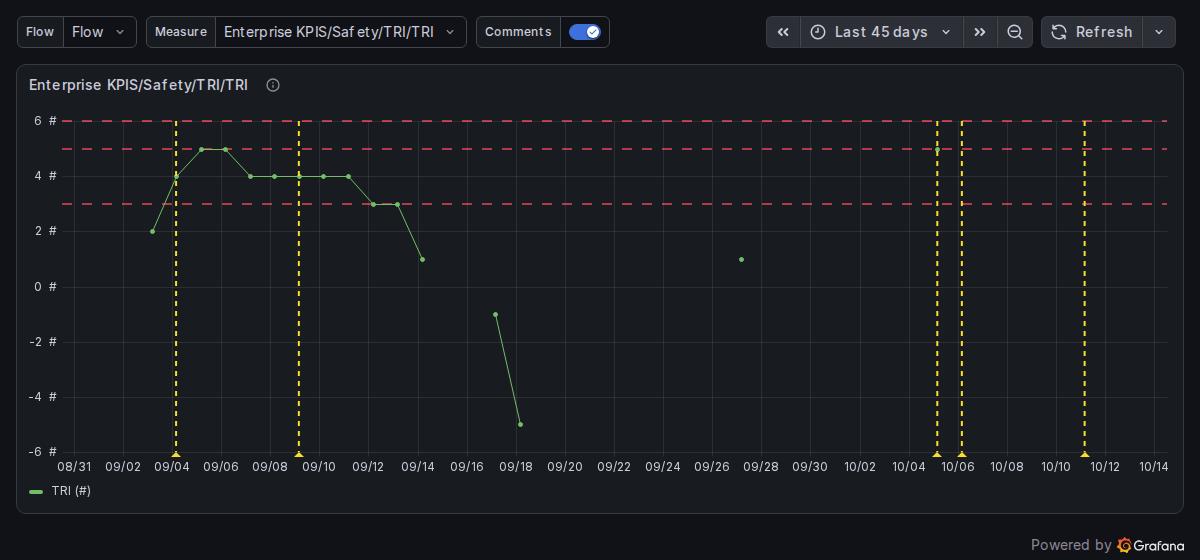
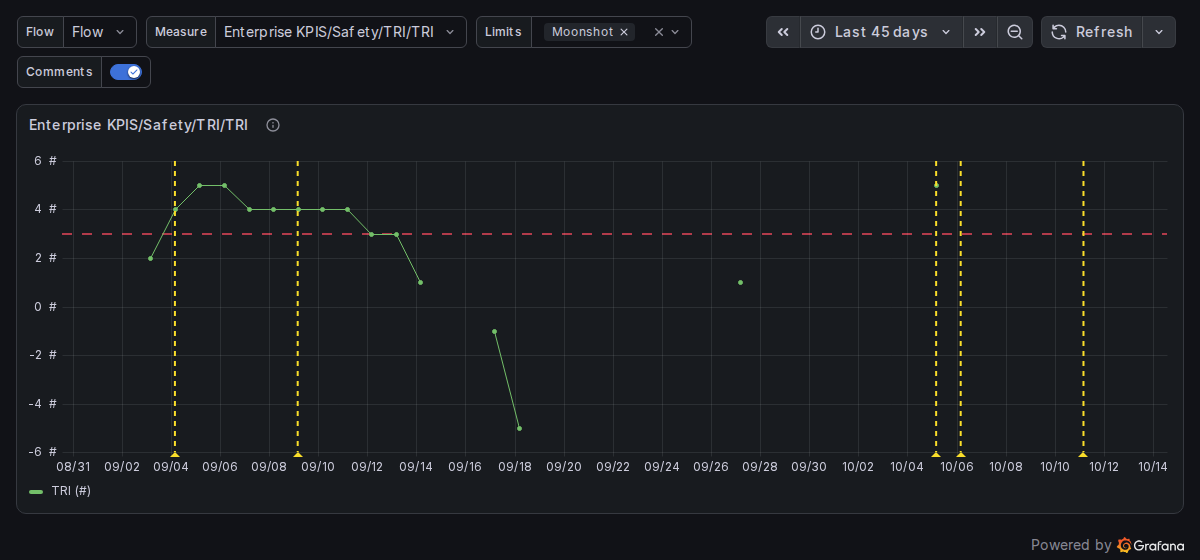
Draw one limit on the measure explorer, with a picker for more
The trend drew every limit of the measure (TRI has three), which reads
as noise without labels. A new Limits variable list gives a measure's
limit names; the dashboard draws the first and lets people tick more.
Limit names in a query may now be variables. The Overview screenshot
shows the single limit.

diff --git a/Flow/src/components/VariableQueryEditor.tsx b/Flow/src/components/VariableQueryEditor.tsx
@@ -32,6 +32,11 @@ const kindOptions: Array<{ label: string; value: VariableKind; description: stri
     description: 'The values of an event attribute seen in the last 90 days',
   },
   { label: 'Charts', value: 'charts', description: 'Time-based Flow charts by folder path, valued by id' },
+  {
+    label: 'Limits',
+    value: 'limits',
+    description: 'The limit names (e.g. Site) the measures have in the default calendar, for Show limits',
+  },
 ];
 
 /**
@@ -90,6 +95,30 @@ export function VariableQueryEditor({ datasource, query, onChange }: Props) {
               : 'The event whose attribute values to list.'
           }
         />
+      )}
+
+      {kind === 'limits' && (
+        <>
+          <ItemsPicker
+            datasource={datasource}
+            items={items}
+            label="Of"
+            onChange={(next) => update({ items: next })}
+            tooltip="The measures whose limits to list."
+          />
+          <InlineField
+            label="Variable"
+            labelWidth={LABEL_WIDTH}
+            tooltip="Or a dashboard variable holding measure ids, such as $measure, so the list follows it."
+          >
+            <Input
+              width={30}
+              placeholder="$measure"
+              defaultValue={query.measureVariable ?? ''}
+              onBlur={(e) => update({ measureVariable: e.currentTarget.value.trim() || undefined })}
+            />
+          </InlineField>
+        </>
       )}
 
       {kind === 'eventValues' && (

diff --git a/Flow/src/datasource.ts b/Flow/src/datasource.ts
@@ -69,6 +69,8 @@ export class DataSource extends DataSourceWithBackend<FlowQuery, FlowOptions> {
       legend: query.legend ? srv.replace(query.legend, scopedVars) : query.legend,
       attributeValues: expandValues(query.attributeValues, scopedVars),
       eventValues: expandValues(query.eventValues, scopedVars),
+      // An empty variable (a measure without limits) leaves no names: all are drawn.
+      limitNames: expandValues(query.limitNames, scopedVars)?.filter((n) => n !== ''),
       // Attribute names may be variables too, so one dashboard serves Line, Site, ...
       attributeFilter: query.attributeFilter ? srv.replace(query.attributeFilter, scopedVars) : query.attributeFilter,
       variableAttribute: query.variableAttribute

diff --git a/Flow/src/datasource.test.ts b/Flow/src/datasource.test.ts
@@ -90,6 +90,11 @@ describe('applyTemplateVariables', () => {
     expect(prepare(anno({ refId: 'Anno', queryType: 'events', items: [] }))).toBeUndefined();
   });
 
+  it('expands limit names and drops an empty one', () => {
+    expect(ds.applyTemplateVariables({ refId: 'A', limitNames: ['$area'] }, {}).limitNames).toEqual(['Packing']);
+    expect(ds.applyTemplateVariables({ refId: 'A', limitNames: [''] }, {}).limitNames).toEqual([]);
+  });
+
   it('takes the chart of a chart variable', () => {
     const out = ds.applyTemplateVariables({ refId: 'A', queryType: 'chart', chartId: 1, chartVariable: '$chart' }, {});
     expect(out.chartId).toBe(5);

diff --git a/Flow/src/types.ts b/Flow/src/types.ts
@@ -26,7 +26,8 @@ export interface QueryItem {
 export type QueryType = 'measures' | 'chart' | 'dependencies' | 'events' | 'variable';
 
 /** What a dashboard variable query lists. */
-export type VariableKind = 'attributeNames' | 'attributeValues' | 'measures' | 'events' | 'eventValues' | 'charts';
+export type VariableKind =
+  'attributeNames' | 'attributeValues' | 'measures' | 'events' | 'eventValues' | 'charts' | 'limits';
 
 /** How an events query lays out event periods. */
 export type EventFormat = 'table' | 'timeline' | 'annotations';

diff --git a/Flow/pkg/plugin/variables.go b/Flow/pkg/plugin/variables.go
@@ -31,6 +31,10 @@ const (
 	varEvents = "events"
 	// varEventValues: the values of an event attribute seen recently.
 	varEventValues = "eventValues"
+	// varLimits: the names of the limits the picked measures have in the
+	// query's calendar (or event), for a dashboard that lets people pick
+	// which limits to draw.
+	varLimits = "limits"
 	// varCharts: the charts the plugin can show (time-based), as value = id,
 	// text = information folder path.
 	varCharts = "charts"
@@ -63,6 +67,12 @@ func (d *Datasource) runVariable(ctx context.Context, qm queryModel) (backend.Da
 		opts, err = d.variableEventValues(ctx, qm)
 	case varCharts:
 		opts, err = d.variableCharts(ctx)
+	case varLimits:
+		var names []string
+		names, err = d.limitNames(ctx, qm)
+		for _, n := range names {
+			opts = append(opts, variableOption{n, n})
+		}
 	default:
 		return backend.DataResponse{}, &badRequest{fmt.Sprintf("unknown variable kind %q", qm.VariableKind)}
 	}

diff --git a/Flow/pkg/plugin/variables_test.go b/Flow/pkg/plugin/variables_test.go
@@ -235,6 +235,11 @@ func TestMeasureLimitsAsThresholds(t *testing.T) {
 	if err != nil || strings.Join(names, ",") != "Moonshot,Site,Spec" {
 		t.Errorf("limit names = %v, %v", names, err)
 	}
+	// The same names as a Limits variable.
+	got := runVar(t, d, queryModel{VariableKind: varLimits, Items: []queryItem{{Tree: "model", Type: itemMeasure, ID: 300}}})
+	if strings.Join(got, ",") != "Moonshot=Moonshot,Site=Site,Spec=Spec" {
+		t.Errorf("limits variable = %v", got)
+	}
 
 	// Without the option, nothing is drawn.
 	resp = runQuery(t, d, queryModel{Items: []queryItem{{Tree: "model", Type: itemMeasure, ID: 300}}})

diff --git a/Flow/src/README.md b/Flow/src/README.md
@@ -8,12 +8,12 @@ Chart [Flow](https://www.flow-software.com) measures, tags, events and charts in
 2. Add a **Flow** data source with the Flow Server URL and a server token (see [Configuration](#configuration)), then select **Save & test**.
 3. Open the data source's **Dashboards** tab and import the example dashboards. They pick measures, events and charts from dropdowns, so they work on any Flow model. Open any of their panels to see how its query is set up.
 
-| Dashboard                       | What it shows                                                                                                                   |
-| ------------------------------- | ------------------------------------------------------------------------------------------------------------------------------- |
-| **Flow: measure explorer**      | Pick any measure: its trend with limits and comments, its latest value, what it is built from and what uses it.                 |
-| **Flow: measures by attribute** | Pick a model attribute and its values (e.g. _Line_ = _Line 1_): the trend and latest values of every measure that carries them. |
-| **Flow: event analysis**        | Pick an event: its periods as a table and a timeline, and measures read per event period.                                       |
-| **Flow: chart viewer**          | Pick a time-based Flow chart: it is shown as Flow lays it out, with limit colours and comments.                                 |
+| Dashboard                       | What it shows                                                                                                                           |
+| ------------------------------- | --------------------------------------------------------------------------------------------------------------------------------------- |
+| **Flow: measure explorer**      | Pick any measure: its trend with a limit (pick more to compare) and comments, its latest value, what it is built from and what uses it. |
+| **Flow: measures by attribute** | Pick a model attribute and its values (e.g. _Line_ = _Line 1_): the trend and latest values of every measure that carries them.         |
+| **Flow: event analysis**        | Pick an event: its periods as a table and a timeline, and measures read per event period.                                               |
+| **Flow: chart viewer**          | Pick a time-based Flow chart: it is shown as Flow lays it out, with limit colours and comments.                                         |
 
 ## What you can do
 
@@ -21,7 +21,7 @@ Chart [Flow](https://www.flow-software.com) measures, tags, events and charts in
 
 ![A measure's trend with its Flow limits as dashed lines and its value comments as markers](/public/plugins/%PLUGIN_ID%/img/screenshots/measures.png)
 
-Period measures (hourly, shift, daily, ...) are read per calendar period; tags (timestamp measures) raw, averaged per panel interval only when there are more values than the panel can show. **Show limits** draws a measure's Flow limits as dashed lines, and an annotation query marks the comments on its values, with who wrote them and when.
+Period measures (hourly, shift, daily, ...) are read per calendar period; tags (timestamp measures) raw, averaged per panel interval only when there are more values than the panel can show. **Show limits** draws a measure's Flow limits as dashed lines (all of them, or the ones you pick), and an annotation query marks the comments on its values, with who wrote them and when.
 
 Pick items in the query editor: **Browse** walks the model folder by folder, or searches by name or measure ID (`4304`, `#4304` or `id:4304`). Each measure shows its ID, interval and retrieval type as Flow Config draws them. A metric stands for all of its measures, and a template metric or measure returns every model measure created from it, named by folder path so `Line 1/Production/Good` and `Line 2/Production/Good` stay apart.
 
@@ -120,6 +120,7 @@ Add a _Query_ variable with this data source and choose what it lists:
 - _Measures_: measures by folder path, valued by measure id: the instances of template measures or metrics, a model metric's measures, or with nothing picked every measure in the model. Use it with a panel's **Variable** field.
 - _Events_: events by folder path, valued by event id; optionally only the instances of template events. Use it with an events query's **Variable** or a measures query's **Event variable**.
 - _Event values_: the values of an event attribute seen in the last 90 days.
+- _Limits_: the limit names (e.g. _Site_) of some measures, or of a measure variable such as `$measure`, in the default calendar. Use it as `$limit` in a panel's limit picker, so people choose which limits are drawn.
 - _Charts_: the time-based charts in Flow's chart folders, by folder path, valued by chart id. Use it with a chart query's **Variable**.
 
 _Attribute values_ and _Measures_ can be narrowed with **Where** (a model attribute and values), which can use other variables, so lists can follow each other: a _Line_ variable, then the measures where _Line_ = `$line`. Model attributes are read for the whole model in one call and kept for five minutes.

diff --git a/Flow/CHANGELOG.md b/Flow/CHANGELOG.md
@@ -5,7 +5,7 @@
 - Example dashboards ship with the plugin: import them from the data source's **Dashboards** tab. _Measure explorer_, _Measures by attribute_, _Event analysis_ and _Chart viewer_ pick measures, events and charts from dropdowns, so they work on any Flow model.
 - The plugin's Overview page is a feature tour with screenshots, and the screenshots are listed in the plugin's gallery.
 - Events queries take a **Variable** of event ids (`$event`), measures queries in event context an **Event variable**, and chart queries a **Variable** of a chart id (`$chart`).
-- New variable lists: _Attributes_, the model attributes the measures carry (the _Measures by attribute_ dashboard picks its attribute from it), and _Charts_, the time-based charts in Flow's chart folders. A _Measures_ variable with nothing picked lists every measure in the model.
+- New variable lists: _Limits_, the limit names of some measures (the _Measure explorer_ dashboard draws the first and lets people tick more), _Attributes_, the model attributes the measures carry (the _Measures by attribute_ dashboard picks its attribute from it), and _Charts_, the time-based charts in Flow's chart folders. A _Measures_ variable with nothing picked lists every measure in the model.
 - Attribute names (filter, variable and event attribute) can be dashboard variables, e.g. `$attribute`.
 - One tag Flow cannot read no longer fails the whole query: when Flow rejects a read of several tags (for example "Could not determine a latch source" for a Latch transform without a latch source), the tags are read one at a time, the others are shown, and each rejected tag is named in a warning.
 - Dependencies: tag transforms (Latch, Exception, ...) are linked to the tag they transform, with the transform type on the node and the arrow. Flow describes them as `tagTransform` metadata from the build after 7.2.0 `08964ed26`; earlier builds return a server error for these measures, which the plugin reports as before.
